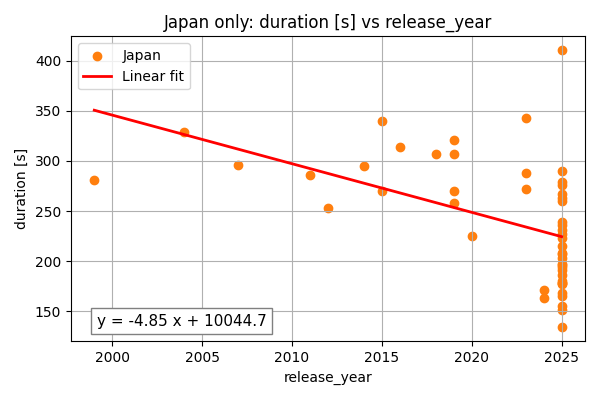
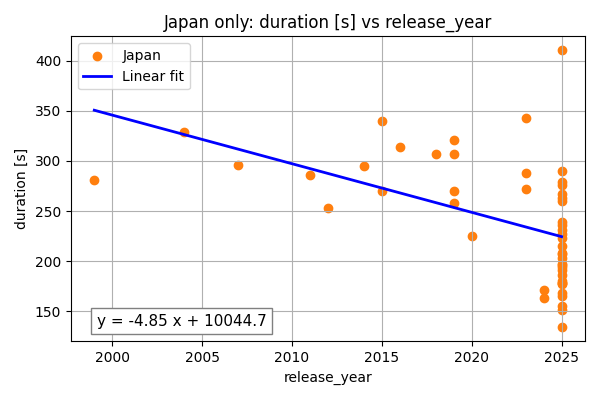
関数名と変数名を直すだけ

diff --git a/prog_spe2/report1/analysis.py b/prog_spe2/report1/analysis.py
@@ -6,72 +6,67 @@ import seaborn as sns
 from scipy.stats import pearsonr, ttest_ind, linregress
 
 # CSV ファイル名
-INPUT_CSV = "spotify_meta.csv"
+INPUT_CSV = 'spotify_meta.csv'
 
 # 出力ディレクトリ作成
-SAVE_DIR = "figure"
-
+SAVE_DIR = 'figure'
 os.makedirs(SAVE_DIR, exist_ok=True)
 
 # データ読み込み
 df = pd.read_csv(INPUT_CSV)
 
 # Japan, Global, Both のデータフレーム作成
-df_japan = df[df["country"] == "Japan"].copy()
-df_global = df[df["country"] == "Global"].copy()
+df_japan = df[df['country'] == 'Japan'].copy()
+df_global = df[df['country'] == 'Global'].copy()
 df_both = pd.concat([df_japan, df_global], ignore_index=True)
 
-# Japan と Global の散布図作成、相関係数算出
-def save_scatter_release_vs_duration_both(df_all, df_japan, df_global, save_dir):
-    x_col = "release_year"
-    y_col = "duration_ms"
-
-    plt.figure(figsize=(6, 4))
-
-    color_map = {
-        "Japan": "orange",
-        "Global": "deepskyblue",
-    }
+# Japan と Global の相関係数算出、散布図作成
+def save_scatter_both(df_both, df_japan, df_global, save_dir):
+    x_col = 'release_year'
+    y_col = 'duration_ms'
 
     # 相関係数
     r_japan, _ = pearsonr(df_japan[x_col], df_japan[y_col])
     r_global, _ = pearsonr(df_global[x_col], df_global[y_col])
-    r_both, _ = pearsonr(df_all[x_col], df_all[y_col])
+    r_both, _ = pearsonr(df_both[x_col], df_both[y_col])
+
+    print('=== 曲の長さとリリース年の相関係数 ===')
+    print(f'  r(Japan)  =  {r_japan:.4f}')
+    print(f'  r(Global) =  {r_global:.4f}')
+    print(f'  r(Japan + Global)  =  {r_both:.4f}')
 
     # 散布図    
-    for c in ["Global", "Japan"]:
-        sub = df_all[df_all["country"] == c]
+    color_map = {
+        'Japan': 'orange',
+        'Global': 'deepskyblue',
+    }
+
+    plt.figure(figsize=(6, 4))
+
+    for c in ['Global', 'Japan']:
+        sub = df_both[df_both['country'] == c]
         x = sub[x_col].values
-        y = sub[y_col].values / 1000.0
+        y = sub[y_col].values / 1000.0  # ms を s に変換
         plt.scatter(x, y, label=c, color=color_map[c])
 
-    print("=== 曲の長さとリリース年の相関係数 ===")
-    print(f"  r(Japan)  =  {r_japan:.4f}")
-    print(f"  r(Global) =  {r_global:.4f}")
-    print(f"  r(Japan + Global)  =  {r_both:.4f}")
-
-    plt.xlabel("release_year")
-    plt.ylabel("duration [s]")
-    plt.title("duration [s] vs release_year (Japan & Global)")
+    plt.xlabel('release_year')
+    plt.ylabel('duration [s]')
+    plt.title('duration [s] vs release_year (Japan & Global)')
     plt.grid(True)
-    plt.legend(loc="upper left")
+    plt.legend(loc='upper left')
 
-    filepath = os.path.join(save_dir, "scatter_duration_s_vs_release_year_both.png")
+    filepath = os.path.join(save_dir, 'scatter_duration_s_vs_release_year_both.png')
     plt.tight_layout()
     plt.savefig(filepath)
     plt.close()
 
-    # print(f"Saved scatter (Both): {filepath}")
-
-
 # Japan の散布図(線形近似)
-def save_scatter_release_vs_duration_japan(df_japan, save_dir):
-    x_col = "release_year"
-    y_col = "duration_ms"
+def save_scatter_japan(df_japan, save_dir):
+    x_col = 'release_year'
+    y_col = 'duration_ms'
 
-    sub = df_japan.dropna(subset=[x_col, y_col])
-    x = sub[x_col].values
-    y_ms = sub[y_col].values
+    x = df_japan[x_col].values
+    y_ms = df_japan[y_col].values
     y_s = y_ms / 1000.0
 
     result_ms = linregress(x, y_ms)
@@ -83,163 +78,148 @@ def save_scatter_release_vs_duration_japan(df_japan, save_dir):
 
     plt.figure(figsize=(6, 4))
 
-    plt.scatter(x, y_s, label="Japan", color="tab:orange")
-    plt.plot(x_lin, y_lin_s, color="red", linewidth=2, label="Linear fit")
+    plt.scatter(x, y_s, label='Japan', color='tab:orange')
+    plt.plot(x_lin, y_lin_s, color='blue', linewidth=2, label='Linear fit')
 
-    slope_s = slope_ms / 1000.0
-    intercept_s = intercept_ms / 1000.0
-    eq_text = f"y = {slope_s:.2f} x + {intercept_s:.1f}"
+    slope_s = slope_ms / 1000.0             # ms を s に変換
+    intercept_s = intercept_ms / 1000.0     # ms を s に変換
+    eq_text = f'y = {slope_s:.2f} x + {intercept_s:.1f}'
     plt.text(
         0.05,
         0.05,
         eq_text,
         transform=plt.gca().transAxes,
         fontsize=11,
-        bbox=dict(facecolor="white", edgecolor="gray"),
+        bbox=dict(facecolor='white', edgecolor='gray'),
     )
 
-    plt.xlabel("release_year")
-    plt.ylabel("duration [s]")
-    plt.title("Japan only: duration [s] vs release_year")
+    plt.xlabel('release_year')
+    plt.ylabel('duration [s]')
+    plt.title('Japan only: duration [s] vs release_year')
     plt.grid(True)
-    plt.legend(loc="upper left")
+    plt.legend(loc='upper left')
 
-    filepath = os.path.join(save_dir, "scatter_duration_s_vs_release_year_Japan.png")
+    filepath = os.path.join(save_dir, 'scatter_duration_s_vs_release_year_Japan.png')
     plt.tight_layout()
     plt.savefig(filepath)
     plt.close()
 
-    # print(f"Saved scatter (Japan): {filepath}")
-
-
-# Japan + Global の線形回帰
-def regression_releaseyear_duration_both(df_all):
-    sub = df_all.dropna(subset=["release_year", "duration_ms"])
-    x = sub["release_year"].values
-    y = sub["duration_ms"].values
-
-    result = linregress(x, y)
-
-    print('\n=== 線形回帰 (Japan + Global) ===')
-    print("duration_s = a * release_year + b としたとき、")
-    print(f"  a  =  {result.slope/1000:.3f} [s/year]")
-    print(f"  b  =  {result.intercept/1000:.3f} [s]")
-    print(f"  r  =  {result.rvalue:.3f}")
-    print(f"  p  =  {result.pvalue:.3e}")
-
-# Japan の線形回帰
-def regression_releaseyear_duration_japan(df_japan):
-    sub = df_japan.dropna(subset=["release_year", "duration_ms"])
-    x = sub["release_year"].values
-    y = sub["duration_ms"].values
-
-    result = linregress(x, y)
-    n = len(x)
-
-    print('\n=== 線形回帰 (Japan) ===')
-    print("duration_s = a * release_year + b としたとき、")
-    print(f"  a  = {result.slope/1000:.3f} [s/year]")
-    print(f"  b  =  {result.intercept/1000:.3f} [s]")
-    print(f"  r  =  {result.rvalue:.3f}")
-    print(f"  p  =  {result.pvalue:.3e}")
-
-# Japan と Global の t検定
-def run_ttests(df, df_japan, df_global):
-    feature_cols = [
-        "duration_ms",
-        "popularity",
-        "artist_popularity",
-        "artist_followers",
-        "release_year",
-    ]
-
-    print("\n=== Japan と Global の平均値に差があるかのt検定 ===")
-    for col in feature_cols:
-        j = df_japan[col].dropna()
-        g = df_global[col].dropna()
-
-        t_stat, p_val = ttest_ind(j, g, equal_var=False)
-        print(f"  {col:18s}: t = {t_stat:8.3f},  p = {p_val:8.3e}")
-
-
 # 箱ひげ図
-def save_boxplot_all_features(df_both, save_dir):
-    sns.set_style(style="whitegrid")
+def save_boxplot(df_both, save_dir):
+    sns.set_style(style='whitegrid')
 
     df_features = df_both.copy()
 
-    exclude_cols = ["country", "track_name", "artist_name"]
+    exclude_cols = ['country', 'track_name', 'artist_name']
     numeric_cols = [
         c
         for c in df_features.columns
         if c not in exclude_cols and np.issubdtype(df_features[c].dtype, np.number)
     ]
 
-    # print("Boxplot に使う列:", numeric_cols)
-
-    df_long = df_features[["country"] + numeric_cols].melt(
-        id_vars="country",
-        var_name="feature_name",
-        value_name="value_raw",
+    df_long = df_features[['country'] + numeric_cols].melt(
+        id_vars='country',
+        var_name='feature_name',
+        value_name='value_raw',
     )
 
     # 標準化（平均0, 分散1）
-    df_long["value"] = df_long.groupby("feature_name")["value_raw"].transform(
+    df_long['value'] = df_long.groupby('feature_name')['value_raw'].transform(
         lambda x: (x - x.mean()) / x.std(ddof=0)
     )
 
     plt.figure(figsize=(8, 4))
     ax = sns.boxplot(
         data=df_long,
-        x="country",
-        y="value",
-        hue="feature_name",
-        order=["Global", "Japan"],
-        showfliers=True,
+        x='country',
+        y='value',
+        hue='feature_name',
+        order=['Global', 'Japan'],
+        showfliers=False,
     )
 
-    plt.title("Comparison of the top 50 Spotify weekly rankings in each country.")
-    plt.xlabel("country")
-    plt.ylabel("value (standardized)")
+    plt.title('Comparison of the top 50 Spotify weekly rankings in each country.')
+    plt.xlabel('country')
+    plt.ylabel('value (standardized)')
 
     # 凡例
     handles, labels = ax.get_legend_handles_labels()
     plt.legend(
         handles,
         labels,
-        title="",
+        title='',
         bbox_to_anchor=(1.02, 1),
-        loc="upper left",
+        loc='upper left',
         borderaxespad=0.0,
     )
 
     plt.tight_layout()
-    box_path = os.path.join(save_dir, "box_japan_global_features.png")
+    box_path = os.path.join(save_dir, 'box_japan_global_features.png')
     plt.savefig(box_path)
     plt.close()
 
-    # print(f"Boxplot saved to: {box_path}")
+# Japan + Global の線形回帰
+def regression_both(df_both):
+    x = df_both['release_year'].values
+    y = df_both['duration_ms'].values
 
+    result = linregress(x, y)
+
+    print('\n=== 線形回帰 (Japan + Global) ===')
+    print('duration_s = a * release_year + b としたとき、')
+    print(f'  a  =  {result.slope/1000:.3f} [s/year]')
+    print(f'  b  =  {result.intercept/1000:.3f} [s]')
+    print(f'  r  =  {result.rvalue:.3f}')
+    print(f'  p  =  {result.pvalue:.3e}')
+
+# Japan の線形回帰
+def regression_japan(df_japan):
+    x = df_japan['release_year'].values
+    y = df_japan['duration_ms'].values
+
+    result = linregress(x, y)
+
+    print('\n=== 線形回帰 (Japan) ===')
+    print('duration_s = a * release_year + b としたとき、')
+    print(f'  a  = {result.slope/1000:.3f} [s/year]')
+    print(f'  b  =  {result.intercept/1000:.3f} [s]')
+    print(f'  r  =  {result.rvalue:.3f}')
+    print(f'  p  =  {result.pvalue:.3e}')
+
+# Japan と Global の t検定
+def run_ttests(df, df_japan, df_global):
+    feature_cols = [
+        'duration_ms',
+        'popularity',
+        'artist_popularity',
+        'artist_followers',
+        'release_year',
+    ]
+
+    print('\n=== Japan と Global の平均値に差があるかのt検定 ===')
+    for col in feature_cols:
+        j = df_japan[col].dropna()
+        g = df_global[col].dropna()
+
+        t_stat, p_val = ttest_ind(j, g, equal_var=False)
+        print(f'  {col:18s}: t = {t_stat:8.3f},  p = {p_val:8.3e}')
 
 # メイン関数
-if __name__ == "__main__":
-    # 散布図（Both, duration を秒で表示）
-    save_scatter_release_vs_duration_both(df_both, df_japan, df_global, SAVE_DIR)
+if __name__ == '__main__':
+    # 散布図 (global + Japan) と相関係数算出
+    save_scatter_both(df_both, df_japan, df_global, SAVE_DIR)
 
-    # 単回帰（Both, ms 単位でログ出力）
-    regression_releaseyear_duration_both(df_both)
+    # 散布図 （Japan）
+    save_scatter_japan(df_japan, SAVE_DIR)
 
-    # 単回帰（Japan only, ms 単位でログ出力）
-    regression_releaseyear_duration_japan(df_japan)
+    # 箱ひげ図
+    save_boxplot(df_both, SAVE_DIR)
 
-    # 散布図（Japan only, 秒＋回帰直線＋式）
-    save_scatter_release_vs_duration_japan(df_japan, SAVE_DIR)
+    # 単回帰 (global + Japan)
+    regression_both(df_both)
+
+    # 単回帰（Japan)
+    regression_japan(df_japan)
 
     # t検定
     run_ttests(df, df_japan, df_global)
-
-    # 箱ひげ図
-    save_boxplot_all_features(df_both, SAVE_DIR)
-
-    # print("Saved:", SAVE_DIR)
-    
